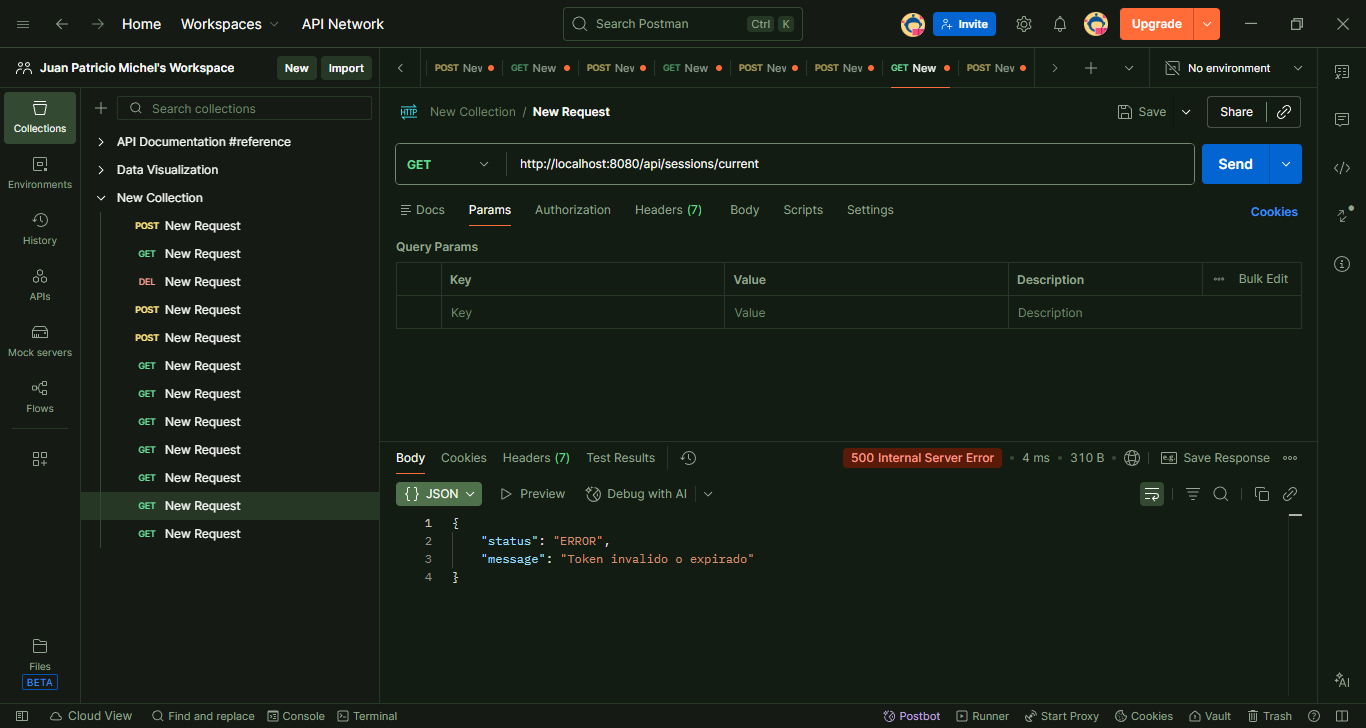
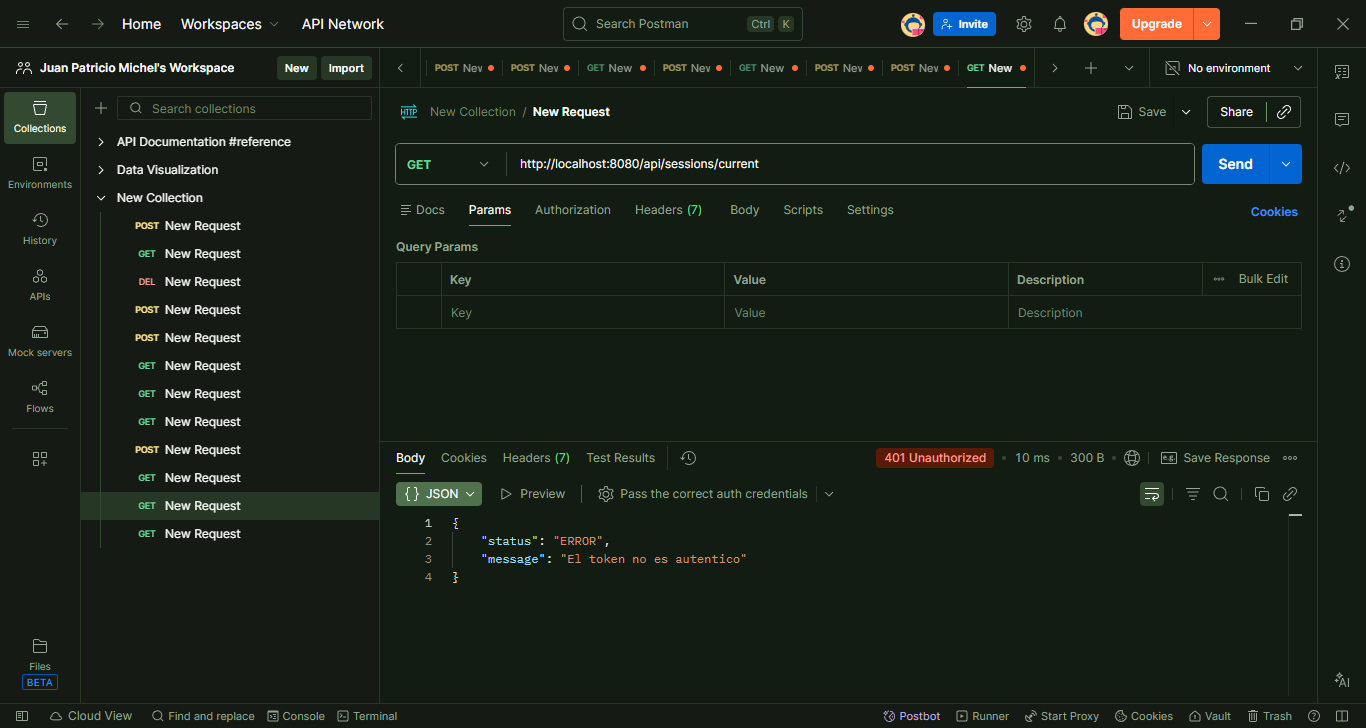
Updated README.md and fixed some imports post merge

diff --git a/src/controllers/user.controller.js b/src/controllers/user.controller.js
@@ -1,5 +1,7 @@
 import { userService } from "../dependencies/index.js"
 import { sendError } from "../utils/responseMessages.js";
+import { isValidPassword } from "../utils/passwordUtils.js";
+import { generateToken } from "../utils/jwt.js";
 
 export const register = async (req, res) => {
   try {
@@ -69,7 +71,8 @@ export const login = async (req, res) => {
 
       return res.status(200).json({
             status: 'success',
-            message: 'Login correcto'
+            message: 'Login correcto',
+            payload: res.cookie.currentUser
       })
     } catch(error){
       return sendError(res,error,'Error al ingresar a la cuenta')

diff --git a/src/middlewares/auth.middleware.js b/src/middlewares/auth.middleware.js
@@ -1,13 +1,16 @@
 import { verifyToken } from "../utils/jwt.js";
 import { sendError } from "../utils/responseMessages.js";
+import { CustomError } from "../utils/customError.js";
 
 export const authToken = (req,res,next) => {
     try{
         const token = req.cookies.currentUser
 
-        if (!token) throw new Error("El token no es autentico")
+        if (!token) throw new CustomError(401,"El token no es autentico")
         
         const decoded = verifyToken(token);
+
+        if (!decoded) throw new CustomError(401,'Token invalido o modificado')
 
         req.user = decoded
 

diff --git a/README.md b/README.md
@@ -70,6 +70,7 @@ Se puede
 
 ![Muestra de un usuario ya registrado cuya respuesta no muestra su contraseña](./example/userexamplenopass.png)
 ![Muestra de un usuario ya registrado en la base de datos con su contraseña hasheada](./example/userexample.png)
-
+![Muestra de una cookie de un usuario ya logeado](./example/usercookieexample.png)
+![Muestra de un caso de error donde se intenta acceder a una sesion abierta sin una cookie correspondiente](./example/nocookieexample.png)
 
     
